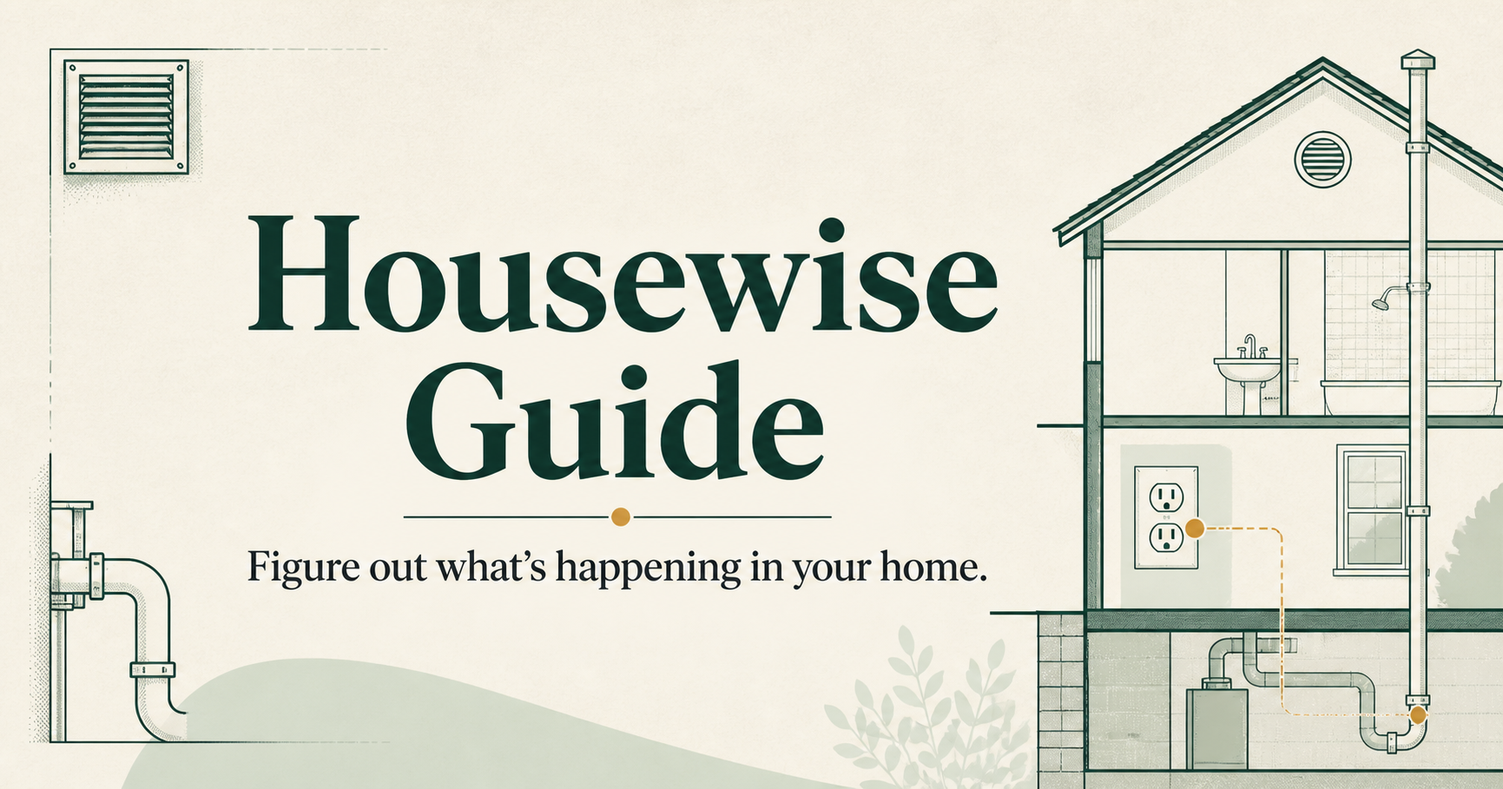
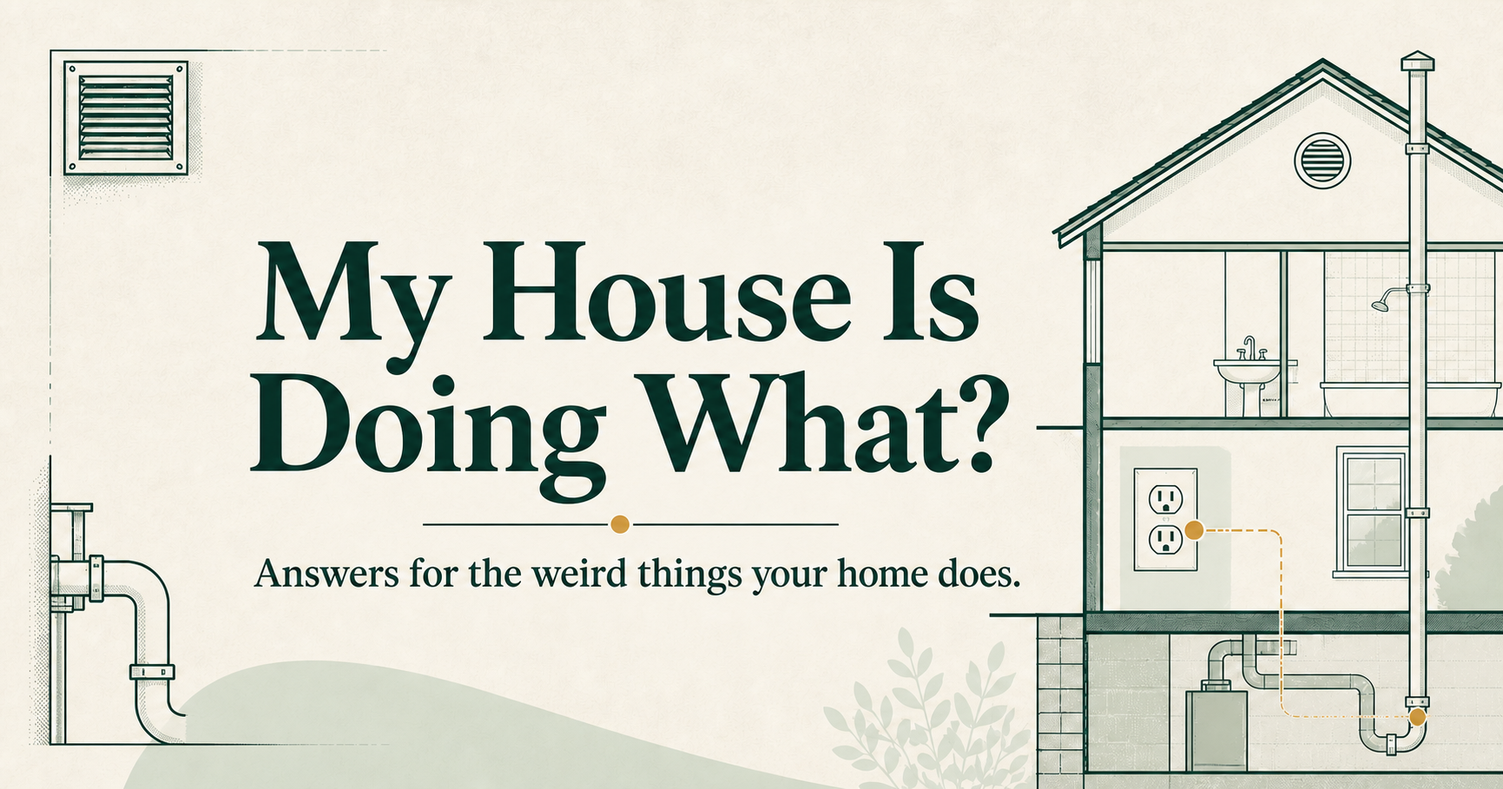
feat: rebrand site for custom domain

diff --git a/app/[category]/page.tsx b/app/[category]/page.tsx
@@ -4,16 +4,16 @@ import { notFound } from "next/navigation";
 import { SiteShell } from "@/components/SiteShell";
 import { GuideCard } from "@/components/GuideCard";
 import { categories, categoryArticles, symptoms, titleCase } from "@/lib/site-data";
-import { canonicalUrl } from "@/lib/site-config";
+import { brandName, canonicalUrl } from "@/lib/site-config";
 
 const infoPages: Record<string, { title: string; description: string; sections: { heading: string; body: string }[] }> = {
-  about: { title: "About Housewise Guide", description: "A practical diagnostic reference for homeowners who want to understand what may be happening before deciding what to do next.", sections: [{ heading: "Why this site exists", body: "Homes communicate through symptoms: a stain, a sound, a smell, a temperature change, or a fixture behaving strangely. Housewise Guide organizes those clues into calm, useful explanations." }, { heading: "What we are—and are not", body: "We publish general educational information. We do not provide on-site diagnosis, emergency services, or a substitute for licensed professional judgment." }] },
-  "editorial-policy": { title: "Editorial Policy", description: "How Housewise Guide researches, writes, updates, and connects homeowner problem guides.", sections: [{ heading: "Our method", body: "Each guide aims to identify common potential causes, explain how clues differ, list safe homeowner observations, and state when professional evaluation may be appropriate." }, { heading: "Evidence and uncertainty", body: "We avoid fake certainty, invented experience, unsupported statistics, and fabricated experts. Material safety or technical claims should be checked against primary or authoritative references. Reviewers may be identified only after their credentials and review are verified." }, { heading: "Corrections and updates", body: "Pages display update dates. Material corrections should be documented in the content registry and republished without changing the URL unless the search intent changes." }] },
-  contact: { title: "Contact", description: "Contact information and correction guidance for Housewise Guide.", sections: [{ heading: "Corrections and feedback", body: "A public contact channel has not yet been configured. Before launch, replace this note with a monitored email address or accessible contact form. Never use this channel for emergencies." }] },
-  privacy: { title: "Privacy Policy", description: "Starter privacy framework for Housewise Guide.", sections: [{ heading: "Current site behavior", body: "This initial version does not intentionally load advertising or analytics scripts. The hosting provider may process basic request data needed to deliver and secure the site." }, { heading: "Before tracking or ads launch", body: "This policy must be updated to identify the operator, vendors, cookies or storage, purposes, retention, user choices, and any jurisdiction-specific rights that actually apply. Obtain qualified legal review before relying on it." }] },
-  terms: { title: "Terms & Disclaimer", description: "Important limitations for using Housewise Guide.", sections: [{ heading: "General information only", body: "Content is provided for general informational purposes and is not a substitute for inspection, diagnosis, repair, or advice from a qualified licensed professional who can evaluate actual conditions." }, { heading: "Safety and emergencies", body: "Do not rely on this site during an emergency. For fire, smoke, gas odor, carbon monoxide alarms, severe electrical hazards, structural movement, or immediate danger, leave the area when appropriate and contact emergency services or the relevant utility." }, { heading: "No guarantee", body: "A symptom can have multiple causes. Information may be incomplete or inapplicable to a particular home. Use judgment, follow manufacturer instructions, and comply with applicable codes and laws." }] }
+  about: { title: `About ${brandName}`, description: "A practical diagnostic reference for homeowners who want to understand what may be happening before deciding what to do next.", sections: [{ heading: "Why this site exists", body: `Homes communicate through symptoms: a stain, a sound, a smell, a temperature change, or a fixture behaving strangely. ${brandName} organizes those clues into calm, useful explanations.` }, { heading: "What we are—and are not", body: "We publish general educational information. We do not provide on-site diagnosis, emergency services, or a substitute for licensed professional judgment." }] },
+  "editorial-policy": { title: "Editorial Policy", description: `How ${brandName} researches, writes, updates, and connects homeowner problem guides.`, sections: [{ heading: "Our method", body: "Each guide aims to identify common potential causes, explain how clues differ, list safe homeowner observations, and state when professional evaluation may be appropriate." }, { heading: "Evidence and uncertainty", body: "We avoid fake certainty, invented experience, unsupported statistics, and fabricated experts. Material safety or technical claims should be checked against primary or authoritative references. Reviewers may be identified only after their credentials and review are verified." }, { heading: "Corrections and updates", body: "Pages display update dates. Material corrections should be documented in the content registry and republished without changing the URL unless the search intent changes." }] },
+  contact: { title: "Contact", description: `Contact information and correction guidance for ${brandName}.`, sections: [{ heading: "Corrections and feedback", body: "A public contact channel has not yet been configured. Before launch, replace this note with a monitored email address or accessible contact form. Never use this channel for emergencies." }] },
+  privacy: { title: "Privacy Policy", description: `Starter privacy framework for ${brandName}.`, sections: [{ heading: "Current site behavior", body: "This initial version does not intentionally load advertising or analytics scripts. The hosting provider may process basic request data needed to deliver and secure the site." }, { heading: "Before tracking or ads launch", body: "This policy must be updated to identify the operator, vendors, cookies or storage, purposes, retention, user choices, and any jurisdiction-specific rights that actually apply. Obtain qualified legal review before relying on it." }] },
+  terms: { title: "Terms & Disclaimer", description: `Important limitations for using ${brandName}.`, sections: [{ heading: "General information only", body: "Content is provided for general informational purposes and is not a substitute for inspection, diagnosis, repair, or advice from a qualified licensed professional who can evaluate actual conditions." }, { heading: "Safety and emergencies", body: "Do not rely on this site during an emergency. For fire, smoke, gas odor, carbon monoxide alarms, severe electrical hazards, structural movement, or immediate danger, leave the area when appropriate and contact emergency services or the relevant utility." }, { heading: "No guarantee", body: "A symptom can have multiple causes. Information may be incomplete or inapplicable to a particular home. Use judgment, follow manufacturer instructions, and comply with applicable codes and laws." }] }
 };
 
 export async function generateStaticParams() { return [...categories.map(({ slug }) => ({ category: slug })), ...Object.keys(infoPages).map((category) => ({ category }))]; }
 export async function generateMetadata({ params }: { params: Promise<{ category: string }> }): Promise<Metadata> { const { category: slug } = await params; const info = infoPages[slug]; const category = categories.find((item) => item.slug === slug); if (!info && !category) return {}; const title = info?.title ?? `${category!.name} Problem Guides`; const description = info?.description ?? category!.intro; const url = canonicalUrl(`/${slug}/`); return { title, description, alternates: { canonical: url }, openGraph: { title, description, url, images: [] }, twitter: { title, description, images: [] } }; }
-export default async function CategoryPage({ params }: { params: Promise<{ category: string }> }) { const { category: slug } = await params; const info = infoPages[slug]; if (info) return <SiteShell><header className="page-hero compact"><p className="eyebrow">Housewise Guide</p><h1>{info.title}</h1><p>{info.description}</p></header><article className="prose legal">{info.sections.map((section) => <section key={section.heading}><h2>{section.heading}</h2><p>{section.body}</p></section>)}</article></SiteShell>; const category = categories.find((item) => item.slug === slug); if (!category) notFound(); const guides = categoryArticles(slug); return <SiteShell><header className="page-hero category-hero"><nav className="breadcrumbs" aria-label="Breadcrumb"><Link href="/">Home</Link><span>/</span><span aria-current="page">{category.name}</span></nav><p className="eyebrow">Home system</p><h1>{category.name} problem guides</h1><p>{category.intro} Start with a symptom or use the Problem Finder when you are not sure which guide fits.</p><Link className="button" href="/find-a-problem/">Use the Problem Finder</Link></header><section className="page-wrap category-body"><div><h2>Browse {category.name.toLowerCase()} symptoms</h2><div className="tag-links">{symptoms.slice(0,8).map((symptom) => <Link key={symptom} href={`/symptoms/${symptom}/`}>{titleCase(symptom)}</Link>)}</div></div><section><p className="eyebrow">Published guides</p><h2>Start here</h2>{guides.length ? <div className="guide-grid">{guides.map((article) => <GuideCard key={article.slug} article={article}/>)}</div> : <div className="empty-state"><strong>This hub is ready for its first guide.</strong><p>Topics will be added only when they answer a distinct search intent. Browse the complete library in the meantime.</p><Link href="/search/">Search all guides</Link></div>}</section></section></SiteShell>; }
+export default async function CategoryPage({ params }: { params: Promise<{ category: string }> }) { const { category: slug } = await params; const info = infoPages[slug]; if (info) return <SiteShell><header className="page-hero compact"><p className="eyebrow">{brandName}</p><h1>{info.title}</h1><p>{info.description}</p></header><article className="prose legal">{info.sections.map((section) => <section key={section.heading}><h2>{section.heading}</h2><p>{section.body}</p></section>)}</article></SiteShell>; const category = categories.find((item) => item.slug === slug); if (!category) notFound(); const guides = categoryArticles(slug); return <SiteShell><header className="page-hero category-hero"><nav className="breadcrumbs" aria-label="Breadcrumb"><Link href="/">Home</Link><span>/</span><span aria-current="page">{category.name}</span></nav><p className="eyebrow">Home system</p><h1>{category.name} problem guides</h1><p>{category.intro} Start with a symptom or use the Problem Finder when you are not sure which guide fits.</p><Link className="button" href="/find-a-problem/">Use the Problem Finder</Link></header><section className="page-wrap category-body"><div><h2>Browse {category.name.toLowerCase()} symptoms</h2><div className="tag-links">{symptoms.slice(0,8).map((symptom) => <Link key={symptom} href={`/symptoms/${symptom}/`}>{titleCase(symptom)}</Link>)}</div></div><section><p className="eyebrow">Published guides</p><h2>Start here</h2>{guides.length ? <div className="guide-grid">{guides.map((article) => <GuideCard key={article.slug} article={article}/>)}</div> : <div className="empty-state"><strong>This hub is ready for its first guide.</strong><p>Topics will be added only when they answer a distinct search intent. Browse the complete library in the meantime.</p><Link href="/search/">Search all guides</Link></div>}</section></section></SiteShell>; }

diff --git a/app/[category]/[slug]/page.tsx b/app/[category]/[slug]/page.tsx
@@ -4,9 +4,9 @@ import { notFound } from "next/navigation";
 import { SiteShell } from "@/components/SiteShell";
 import { GuideCard } from "@/components/GuideCard";
 import { articles, articleUrl, categories, findArticle, titleCase } from "@/lib/site-data";
-import { canonicalUrl } from "@/lib/site-config";
+import { brandName, canonicalUrl } from "@/lib/site-config";
 
 export async function generateStaticParams() { return articles.map((article) => ({ category: article.primary_category, slug: article.slug })); }
 export async function generateMetadata({ params }: { params: Promise<{ category: string; slug: string }> }): Promise<Metadata> { const { category, slug } = await params; const article = findArticle(category, slug); if (!article) return {}; const url = canonicalUrl(articleUrl(article)); return { title: article.title, description: article.description, alternates: { canonical: url }, openGraph: { type: "article", url, title: article.title, description: article.description, publishedTime: article.published_date, modifiedTime: article.updated_date, images: [] }, twitter: { card: "summary", title: article.title, description: article.description, images: [] } }; }
-export default async function ArticlePage({ params }: { params: Promise<{ category: string; slug: string }> }) { const { category, slug } = await params; const article = findArticle(category, slug); if (!article) notFound(); const categoryName = categories.find((item) => item.slug === category)?.name ?? titleCase(category); const related = articles.filter((item) => article.related_articles.includes(item.slug)); const breadcrumb = { "@context": "https://schema.org", "@type": "BreadcrumbList", itemListElement: [{ "@type": "ListItem", position: 1, name: "Home", item: canonicalUrl("/") }, { "@type": "ListItem", position: 2, name: categoryName, item: canonicalUrl(`/${category}/`) }, { "@type": "ListItem", position: 3, name: article.title, item: canonicalUrl(articleUrl(article)) }] }; const schema = { "@context": "https://schema.org", "@type": "Article", headline: article.title, description: article.description, datePublished: article.published_date, dateModified: article.updated_date, author: { "@type": "Organization", name: article.author }, publisher: { "@type": "Organization", name: "Housewise Guide" }, mainEntityOfPage: canonicalUrl(articleUrl(article)) };
+export default async function ArticlePage({ params }: { params: Promise<{ category: string; slug: string }> }) { const { category, slug } = await params; const article = findArticle(category, slug); if (!article) notFound(); const categoryName = categories.find((item) => item.slug === category)?.name ?? titleCase(category); const related = articles.filter((item) => article.related_articles.includes(item.slug)); const breadcrumb = { "@context": "https://schema.org", "@type": "BreadcrumbList", itemListElement: [{ "@type": "ListItem", position: 1, name: "Home", item: canonicalUrl("/") }, { "@type": "ListItem", position: 2, name: categoryName, item: canonicalUrl(`/${category}/`) }, { "@type": "ListItem", position: 3, name: article.title, item: canonicalUrl(articleUrl(article)) }] }; const schema = { "@context": "https://schema.org", "@type": "Article", headline: article.title, description: article.description, datePublished: article.published_date, dateModified: article.updated_date, author: { "@type": "Organization", name: article.author }, publisher: { "@type": "Organization", name: brandName }, mainEntityOfPage: canonicalUrl(articleUrl(article)) };
   const electrical = article.primary_category === "electrical"; return <SiteShell><article className="article-layout"><div className="article-main"><nav className="breadcrumbs" aria-label="Breadcrumb"><Link href="/">Home</Link><span>/</span><Link href={`/${category}/`}>{categoryName}</Link><span>/</span><span aria-current="page">{article.title}</span></nav><header className="article-header"><p className="eyebrow">{titleCase(article.content_type)}</p><h1>{article.title}</h1><p className="dek">{article.description}</p><div className="byline"><span>By {article.author}</span><span>{article.reading_time} min read</span><span>Updated {article.updated_date}</span></div></header><section className="direct-answer" aria-labelledby="short-answer"><p className="eyebrow">Short answer</p><h2 id="short-answer">What it usually means</h2><p>{article.direct_answer}</p></section>{electrical && <aside className="safety stop"><strong>Stop and get help</strong><p>Do not open electrical boxes or handle wiring. Smoke, sparking, burning odor, melting, or significant heat calls for immediate caution and qualified help.</p></aside>}<section className="prose"><h2>Likely causes</h2><p>Several conditions can create a similar symptom. These are useful starting points, not a diagnosis.</p><ol className="cause-list">{article.likely_causes.map((cause, index) => <li key={cause}><span>{index + 1}</span><strong>{cause}</strong></li>)}</ol><h2>How to narrow down the cause</h2><p>Pay attention to timing, location, weather, recent changes, and whether more than one fixture or room is affected. A repeatable pattern is more useful than a guess.</p><aside className="safety caution"><strong>Keep the check observational</strong><p>Stop if a check would expose wiring, gas, refrigerant, hot water, sewage, unstable materials, the roof, or pressurized components.</p></aside><h2>What you can safely check</h2><ul className="check-list">{article.safe_checks.map((check) => <li key={check}>{check}</li>)}</ul><h2>When professional help may be appropriate</h2><p>{article.professional_help}</p></section>{related.length > 0 && <section className="related"><p className="eyebrow">Keep narrowing it down</p><h2>Related problems</h2><div className="guide-grid">{related.map((item) => <GuideCard key={item.slug} article={item}/>)}</div></section>}<footer className="article-footer"><p><strong>Last updated:</strong> {article.updated_date}</p><p><strong>Editorial note:</strong> General information only. This page has not yet received an external expert review.</p></footer></div><aside className="article-rail"><div className="rail-card"><p className="eyebrow">In this guide</p><a href="#short-answer">Short answer</a><span>Likely causes</span><span>Safe checks</span><span>When to get help</span></div><div className="ad-slot" aria-hidden="true">Reserved ad space (disabled)</div></aside></article><script type="application/ld+json" dangerouslySetInnerHTML={{ __html: JSON.stringify([breadcrumb, schema]).replace(/</g, "\\u003c") }}/></SiteShell>; }

diff --git a/app/page.tsx b/app/page.tsx
@@ -2,7 +2,7 @@ import { SiteLink as Link } from "@/components/SiteLink";
 import { GuideCard } from "@/components/GuideCard";
 import { SiteShell } from "@/components/SiteShell";
 import { articles, categories, articleUrl } from "@/lib/site-data";
-import { routePath } from "@/lib/site-config";
+import { routePath, tagline } from "@/lib/site-config";
 
 const problems = [
   ["leaking", "Something is leaking", "Drips, puddles, damp spots, and water stains"], ["smell", "Something smells", "Musty, burning, sewer, and unexplained odors"],
@@ -13,7 +13,7 @@ const problems = [
 
 export default function Home() {
   const featured = articles.filter((article) => article.featured_status).slice(0, 4);
-  return <SiteShell><section className="hero"><p className="eyebrow">Practical answers for puzzling homes</p><h1>Figure out what’s happening in your home.</h1><p className="hero-copy">Search a symptom, browse a system, or use the guided problem finder to narrow down what to check next.</p><form className="search-box" action={routePath("/search/")}><label className="sr-only" htmlFor="site-search">Search home problems</label><input id="site-search" name="q" type="search" placeholder="Try “toilet bubbling” or “warm outlet”"/><button type="submit">Search guides</button></form><Link className="finder-link" href="/find-a-problem/">Not sure what to search? Start the Problem Finder →</Link></section>
+  return <SiteShell><section className="hero"><p className="eyebrow">{tagline}</p><h1>Figure out what’s happening in your home.</h1><p className="hero-copy">Search a symptom, browse a system, or use the guided problem finder to narrow down what to check next.</p><form className="search-box" action={routePath("/search/")}><label className="sr-only" htmlFor="site-search">Search home problems</label><input id="site-search" name="q" type="search" placeholder="Try “toilet bubbling” or “warm outlet”"/><button type="submit">Search guides</button></form><Link className="finder-link" href="/find-a-problem/">Not sure what to search? Start the Problem Finder →</Link></section>
   <section className="section" aria-labelledby="browse-problems"><div className="section-heading"><div><p className="eyebrow">Start with what you notice</p><h2 id="browse-problems">Browse by problem</h2></div></div><div className="problem-grid">{problems.map(([slug,title,detail]) => <Link className="problem-card" href={`/symptoms/${slug}/`} key={slug}><span className="card-mark" aria-hidden="true"/><strong>{title}</strong><span>{detail}</span></Link>)}</div></section>
   <section className="system-band" aria-labelledby="browse-systems"><div><p className="eyebrow">Know where to look?</p><h2 id="browse-systems">Browse by home system</h2><p>Explore a focused collection of problems, symptoms, and practical checks.</p></div><div className="system-links">{categories.slice(0, 10).map((category) => <Link href={`/${category.slug}/`} key={category.slug}>{category.name}<span>→</span></Link>)}</div></section>
   <section className="section"><div className="section-heading"><div><p className="eyebrow">Useful starting points</p><h2>Popular guides</h2></div><Link href="/search/">View all guides</Link></div><div className="guide-grid">{featured.map((article) => <GuideCard article={article} key={article.slug}/>)}</div></section>

diff --git a/app/layout.tsx b/app/layout.tsx
@@ -1,20 +1,20 @@
 import type { Metadata } from "next";
 import "./globals.css";
-import { assetUrl, canonicalUrl, siteUrl } from "@/lib/site-config";
+import { assetUrl, brandName, canonicalUrl, siteUrl, tagline } from "@/lib/site-config";
 
 export const metadata: Metadata = {
   metadataBase: new URL(`${siteUrl}/`),
-  title: { default: "Housewise Guide | Understand What Your Home Is Telling You", template: "%s | Housewise Guide" },
-  description: "Calm, practical guides to help homeowners understand leaks, smells, noises, moisture, electrical behavior, and other home problems.",
+  title: { default: `${brandName} | ${tagline}`, template: `%s | ${brandName}` },
+  description: `${tagline} Calm, practical guides to leaks, smells, noises, moisture, electrical behavior, and other home problems.`,
   alternates: { canonical: canonicalUrl("/") },
-  openGraph: { type: "website", siteName: "Housewise Guide", url: canonicalUrl("/"), title: "Housewise Guide", description: "Figure out what’s happening in your home.", images: [{ url: assetUrl("/og.png"), width: 1731, height: 909, alt: "Housewise Guide — Figure out what’s happening in your home." }] },
-  twitter: { card: "summary_large_image", title: "Housewise Guide", description: "Figure out what’s happening in your home.", images: [assetUrl("/og.png")] },
+  openGraph: { type: "website", siteName: brandName, url: canonicalUrl("/"), title: brandName, description: tagline, images: [{ url: assetUrl("/og.png"), width: 1731, height: 909, alt: `${brandName} — ${tagline}` }] },
+  twitter: { card: "summary_large_image", title: brandName, description: tagline, images: [assetUrl("/og.png")] },
   icons: { icon: assetUrl("/favicon.svg"), shortcut: assetUrl("/favicon.svg") },
   // Add a future Google Search Console verification token via `verification: { google: "..." }` here.
 };
 
 export default function RootLayout({ children }: Readonly<{ children: React.ReactNode }>) {
-  const website = { "@context": "https://schema.org", "@type": "WebSite", name: "Housewise Guide", url: canonicalUrl("/"), potentialAction: { "@type": "SearchAction", target: `${canonicalUrl("/search/")}?q={search_term_string}`, "query-input": "required name=search_term_string" } };
-  const organization = { "@context": "https://schema.org", "@type": "Organization", name: "Housewise Guide", url: siteUrl };
+  const website = { "@context": "https://schema.org", "@type": "WebSite", name: brandName, description: tagline, url: canonicalUrl("/"), potentialAction: { "@type": "SearchAction", target: `${canonicalUrl("/search/")}?q={search_term_string}`, "query-input": "required name=search_term_string" } };
+  const organization = { "@context": "https://schema.org", "@type": "Organization", name: brandName, url: siteUrl };
   return <html lang="en"><body>{children}<script type="application/ld+json" dangerouslySetInnerHTML={{ __html: JSON.stringify([website, organization]).replace(/</g, "\\u003c") }}/>{/* Future analytics, ad, and site-verification scripts belong here only after consent/configuration. */}</body></html>;
 }

diff --git a/components/SiteShell.tsx b/components/SiteShell.tsx
@@ -1,15 +1,20 @@
 import { SiteLink as Link } from "@/components/SiteLink";
 import { categories } from "@/lib/site-data";
+import { brandName, tagline } from "@/lib/site-config";
+
+function BrandWordmark({ footer = false }: { footer?: boolean }) {
+  return <Link aria-label={`${brandName} home`} className={`brand${footer ? " footer-brand" : ""}`} href="/"><span className="brand-prefix">My House Is</span>{" "}<span className="brand-question">Doing What?</span></Link>;
+}
 
 export function Header() {
   return <><a className="skip-link" href="#main">Skip to content</a><header className="site-header">
-    <Link className="brand" href="/">Housewise <span>Guide</span></Link>
+    <BrandWordmark/>
     <nav aria-label="Primary navigation"><Link href="/find-a-problem/">Find a problem</Link><Link href="/hvac/">HVAC</Link><Link href="/plumbing/">Plumbing</Link><Link href="/electrical/">Electrical</Link><Link href="/appliances/">Appliances</Link><Link href="/search/">Search</Link></nav>
   </header></>;
 }
 
 export function Footer() {
-  return <footer className="footer"><div className="footer-grid"><div><Link className="brand footer-brand" href="/">Housewise <span>Guide</span></Link><p>Calm, practical help for understanding what your home is telling you.</p></div><div><h2>Explore</h2><Link href="/find-a-problem/">Problem Finder</Link><Link href="/search/">Search guides</Link><Link href="/sitemap.xml">Sitemap</Link></div><div><h2>Categories</h2>{categories.slice(0, 5).map((category) => <Link key={category.slug} href={`/${category.slug}/`}>{category.name}</Link>)}</div><div><h2>About</h2><Link href="/about/">About</Link><Link href="/editorial-policy/">Editorial policy</Link><Link href="/contact/">Contact</Link><Link href="/privacy/">Privacy</Link><Link href="/terms/">Terms & disclaimer</Link></div></div><p className="fine-print">© {new Date().getFullYear()} Housewise Guide. General information only; not a substitute for professional evaluation.</p></footer>;
+  return <footer className="footer"><div className="footer-grid"><div><BrandWordmark footer/><p>{tagline}</p></div><div><h2>Explore</h2><Link href="/find-a-problem/">Problem Finder</Link><Link href="/search/">Search guides</Link><Link href="/sitemap.xml">Sitemap</Link></div><div><h2>Categories</h2>{categories.slice(0, 5).map((category) => <Link key={category.slug} href={`/${category.slug}/`}>{category.name}</Link>)}</div><div><h2>About</h2><Link href="/about/">About</Link><Link href="/editorial-policy/">Editorial policy</Link><Link href="/contact/">Contact</Link><Link href="/privacy/">Privacy</Link><Link href="/terms/">Terms & disclaimer</Link></div></div><p className="fine-print">© {new Date().getFullYear()} {brandName}. General information only; not a substitute for professional evaluation.</p></footer>;
 }
 
 export function SiteShell({ children }: { children: React.ReactNode }) { return <><Header/><main id="main">{children}</main><Footer/></>; }

diff --git a/app/globals.css b/app/globals.css
@@ -13,8 +13,8 @@ a { color: inherit; }
 .skip-link:focus { transform: none; }
 .sr-only { position: absolute; width: 1px; height: 1px; padding: 0; margin: -1px; overflow: hidden; clip: rect(0,0,0,0); white-space: nowrap; border: 0; }
 .site-header { max-width: var(--max); margin: auto; min-height: 78px; padding: 0 24px; display: flex; align-items: center; justify-content: space-between; gap: 28px; }
-.brand { font-family: Georgia, serif; font-size: 23px; font-weight: 700; text-decoration: none; letter-spacing: -.02em; }
-.brand span { color: var(--green); }
+.brand { flex: none; font-family: Georgia, serif; font-size: 21px; font-weight: 700; text-decoration: none; letter-spacing: -.025em; }
+.brand-question { color: var(--green); }
 nav { display: flex; gap: 26px; font-size: 14px; font-weight: 700; }
 nav a { text-decoration: none; }
 nav a:hover { color: var(--green); }
@@ -46,7 +46,7 @@ h2 { font-size: clamp(34px, 4vw, 48px); font-weight: 500; }
 .system-links a:hover { color: #c7e7dc; }
 a:focus-visible, button:focus-visible, input:focus-visible { outline: 3px solid var(--amber); outline-offset: 3px; }
 @media (max-width: 800px) { nav a:not(:first-child) { display: none; } .hero { padding-top: 54px; } .problem-grid { grid-template-columns: 1fr 1fr; } .system-band { grid-template-columns: 1fr; gap: 34px; } }
-@media (max-width: 520px) { .site-header { min-height: 68px; padding-inline: 18px; } .brand { font-size: 20px; } nav { font-size: 13px; } .hero, .section { padding-left: 18px; padding-right: 18px; } .hero { padding-top: 38px; padding-bottom: 72px; } h1 { font-size: 46px; } .search-box { display: block; } .search-box input, .search-box button { width: 100%; } .search-box button { margin-top: 4px; } .problem-grid, .system-links { grid-template-columns: 1fr; } .problem-card { min-height: 150px; } .card-mark { margin-bottom: 20px; } }
+@media (max-width: 520px) { .site-header { min-height: 68px; padding-inline: 18px; gap: 12px; } .site-header .brand { font-size: 17px; line-height: 1.05; } .site-header .brand-prefix, .site-header .brand-question { display: block; } nav { font-size: 13px; } .hero, .section { padding-left: 18px; padding-right: 18px; } .hero { padding-top: 38px; padding-bottom: 72px; } h1 { font-size: 46px; } .search-box { display: block; } .search-box input, .search-box button { width: 100%; } .search-box button { margin-top: 4px; } .problem-grid, .system-links { grid-template-columns: 1fr; } .problem-card { min-height: 150px; } .card-mark { margin-bottom: 20px; } }
 @media (prefers-reduced-motion: reduce) { *, *::before, *::after { scroll-behavior: auto !important; transition: none !important; } }
 
 .guide-grid { display: grid; grid-template-columns: repeat(2, minmax(0, 1fr)); gap: 18px; }

diff --git a/app/search/page.tsx b/app/search/page.tsx
@@ -1,7 +1,7 @@
 import type { Metadata } from "next";
 import SiteSearch from "@/components/SiteSearch";
 import { SiteShell } from "@/components/SiteShell";
-import { canonicalUrl } from "@/lib/site-config";
-const description = "Search Housewise Guide by symptom, system, location, or phrase.";
+import { brandName, canonicalUrl } from "@/lib/site-config";
+const description = `Search ${brandName} by symptom, system, location, or phrase.`;
 export const metadata: Metadata = { title: "Search Home Problem Guides", description, alternates: { canonical: canonicalUrl("/search/") }, robots: { index: false, follow: true }, openGraph: { title: "Search Home Problem Guides", description, url: canonicalUrl("/search/"), images: [] }, twitter: { title: "Search Home Problem Guides", description, images: [] } };
 export default function SearchPage() { return <SiteShell><header className="page-hero compact"><p className="eyebrow">Search the library</p><h1>What is your home doing?</h1><p>Use the words you would naturally use. The index checks titles, symptoms, systems, summaries, and related phrases.</p></header><div className="page-wrap"><SiteSearch/></div></SiteShell>; }

diff --git a/lib/site-config.ts b/lib/site-config.ts
@@ -1,7 +1,12 @@
-const configuredBasePath = process.env.NEXT_PUBLIC_BASE_PATH ?? "/housewise";
-const configuredOrigin = process.env.NEXT_PUBLIC_SITE_ORIGIN ?? "https://gageg123-de.github.io";
+import siteConfig from "@/site.config.json";
+
+const configuredBasePath = process.env.NEXT_PUBLIC_BASE_PATH ?? siteConfig.basePath;
+const configuredOrigin = process.env.NEXT_PUBLIC_SITE_ORIGIN ?? siteConfig.siteOrigin;
 
 const normalizedBasePath = configuredBasePath.replace(/^\/+|\/+$/g, "");
+export const brandName = siteConfig.brandName;
+export const tagline = siteConfig.tagline;
+export const customDomain = siteConfig.customDomain;
 export const basePath = normalizedBasePath ? `/${normalizedBasePath}` : "";
 export const siteOrigin = configuredOrigin.replace(/\/+$/, "");
 export const siteUrl = `${siteOrigin}${basePath}`;
